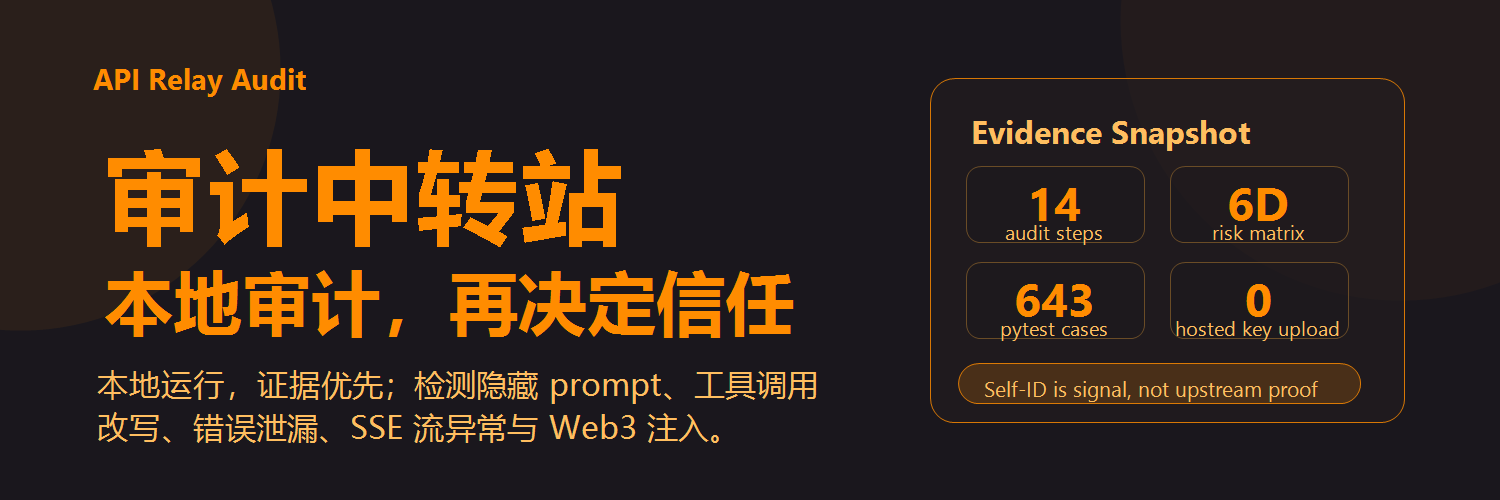
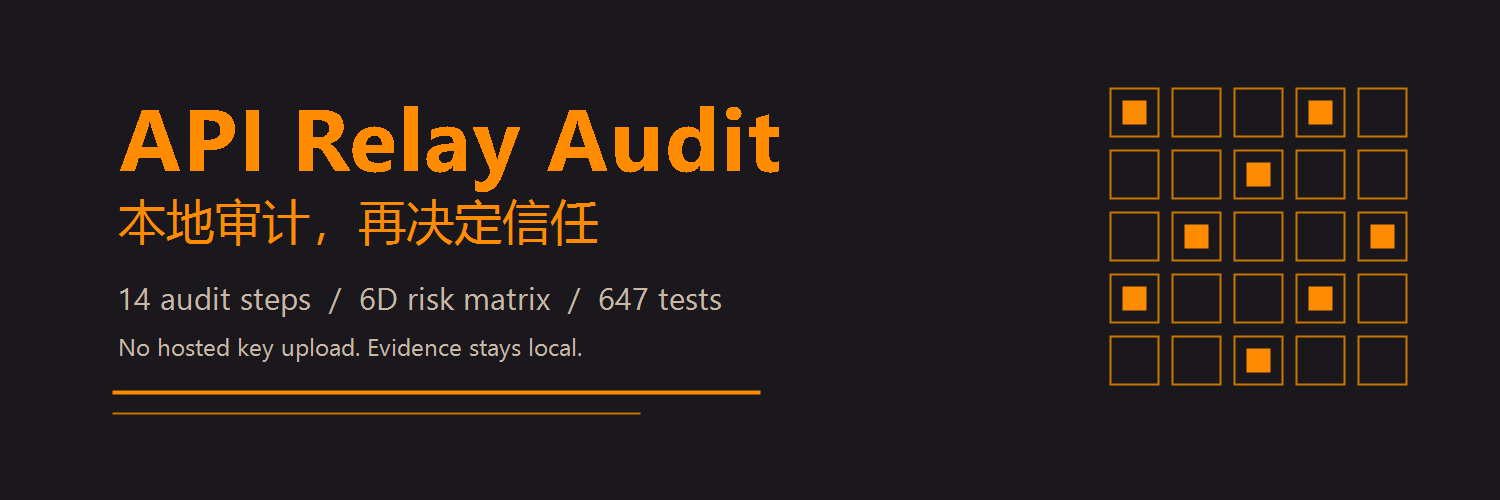
test: cover submission validation edge cases

diff --git a/tests/test_process_submission.py b/tests/test_process_submission.py
@@ -137,8 +137,8 @@ def test_domain_with_path_traversal():
         body = _make_body(relay_domain=bad_domain)
         fields = parse_issue_body(body)
         errors = validate_fields(fields)
-        path_errors = [e for e in errors if "path traversal" in e.lower()]
-        assert len(path_errors) > 0, f"Expected path-traversal error for domain {bad_domain!r}"
+        domain_errors = [e for e in errors if "relay_domain" in e and "hostname" in e]
+        assert len(domain_errors) > 0, f"Expected hostname error for domain {bad_domain!r}"
 
 
 def test_domain_with_special_chars():
@@ -147,8 +147,37 @@ def test_domain_with_special_chars():
         body = _make_body(relay_domain=bad_domain)
         fields = parse_issue_body(body)
         errors = validate_fields(fields)
-        char_errors = [e for e in errors if "illegal characters" in e.lower()]
-        assert len(char_errors) > 0, f"Expected illegal-char error for domain {bad_domain!r}"
+        domain_errors = [e for e in errors if "relay_domain" in e and "hostname" in e]
+        assert len(domain_errors) > 0, f"Expected hostname error for domain {bad_domain!r}"
+
+
+def test_domain_must_be_canonical_hostname():
+    """relay_domain must be a hostname, not a host:port or invalid label."""
+    bad_domains = [
+        "api.example.com:443",
+        "bad_domain.com",
+        "-bad.com",
+        "bad-.com",
+        ".",
+        "api..example.com",
+    ]
+    for bad_domain in bad_domains:
+        body = _make_body(relay_domain=bad_domain)
+        fields = parse_issue_body(body)
+        errors = validate_fields(fields)
+        domain_errors = [e for e in errors if "relay_domain" in e and "hostname" in e]
+        assert len(domain_errors) > 0, f"Expected hostname error for domain {bad_domain!r}"
+
+
+def test_domain_allows_case_and_trailing_dot():
+    """Case and trailing dot are canonicalized before hostname validation."""
+    body = _make_body(relay_domain="API.Example.COM.")
+    fields = parse_issue_body(body)
+    errors = validate_fields(fields)
+    domain_errors = [e for e in errors if "relay_domain" in e]
+    assert domain_errors == []
+    entry = build_relay_entry(fields, "tester", "100")
+    assert entry["domain"] == "api.example.com"
 
 
 def test_massive_body():
@@ -177,6 +206,23 @@ def test_multiple_images():
     entry = build_relay_entry(fields, "tester", "99")
     assert len(entry["reportImages"]) == 4
     assert "https://img.com/3.png" in entry["reportImages"]
+
+
+def test_report_images_must_be_https_without_markdown_title():
+    """Report image extraction accepts only strict HTTPS markdown image URLs."""
+    assert extract_image_urls("![x](http://img.com/a.png)") == []
+    assert extract_image_urls("![x](https://img.com/a.png title)") == []
+    assert extract_image_urls("![x](https://img.com/a.png)") == ["https://img.com/a.png"]
+
+    for bad_image in [
+        "![x](http://img.com/a.png)",
+        "![x](https://img.com/a.png title)",
+    ]:
+        body = _make_body(report_image=bad_image)
+        fields = parse_issue_body(body)
+        errors = validate_fields(fields)
+        image_errors = [e for e in errors if "report_image" in e]
+        assert image_errors, f"Expected report_image error for {bad_image!r}"
 
 
 def test_missing_report_image():
@@ -267,6 +313,13 @@ def test_rate_limit_old_entries():
         {"domain": "test.com", "submittedAt": recent_time} for _ in range(10)
     ]
     assert check_rate_limit("test.com", mixed_data_trigger) is True
+
+
+def test_rate_limit_normalizes_existing_domains():
+    """Legacy/manual relays.json domains should be normalized before comparison."""
+    now_iso = datetime.now(timezone.utc).isoformat()
+    fake_data = [{"domain": "TEST.com.", "submittedAt": now_iso} for _ in range(10)]
+    assert check_rate_limit("test.com", fake_data) is True
 
 
 def test_concurrent_json_write_safety(tmp_path, monkeypatch):

diff --git a/docs/_metrics.md b/docs/_metrics.md
@@ -16,8 +16,8 @@
 | 单文件版版本 | `v2.3` | `audit.py` docstring |
 | 步骤数 (Step N) | **14** | grep `Step N` in `scripts/audit.py` |
 | 步骤数 (单文件版) | 14 | grep `Step N` in `audit.py` |
-| 测试数 (pytest) | **643** | `pytest --collect-only` |
-| 测试数 (static) | 637 | grep `def test_*` in tests/ |
+| 测试数 (pytest) | **647** | `pytest --collect-only` |
+| 测试数 (static) | 641 | grep `def test_*` in tests/ |
 | CLI flag 数 | 19 | grep `add_argument("--*")` |
 | profile 选项 | general, web3, full | argparse choices |
 | ROADMAP 上次更新 | 2026-05-10 | `ROADMAP.md` 头部 |
@@ -32,7 +32,7 @@
 
 - ✅ 版本一致：两份都是 `v2.3`。
 - ✅ 步骤数一致：14。
-- ⚠ ROADMAP 最后一次记录 562 个测试，但当前 pytest 是 643。要么 ROADMAP 漏更新，要么有未记录的新测试。
+- ⚠ ROADMAP 最后一次记录 562 个测试，但当前 pytest 是 647。要么 ROADMAP 漏更新，要么有未记录的新测试。
 
 ## 人工 review 边界（脚本抓不到，每次发布要人工核对）
 

diff --git a/README.md b/README.md
@@ -4,7 +4,7 @@
 
 **Local, evidence-first security audit for third-party AI API relays.**
 
-<img src="assets/readme/hero.png" alt="API Relay Audit black and orange README banner: 14 audit steps, 6D risk matrix, 643 tests, no hosted key upload" width="100%">
+<img src="assets/readme/hero.png" alt="API Relay Audit black and orange README banner: 14 audit steps, 6D risk matrix, 647 tests, no hosted key upload" width="100%">
 
 <a href="#readme-zh"><img alt="README Chinese" src="https://img.shields.io/badge/README-%E4%B8%AD%E6%96%87-111111?style=for-the-badge"></a>
 <a href="#readme-en"><img alt="README English" src="https://img.shields.io/badge/README-English-f5f5f5?style=for-the-badge&labelColor=111111&color=f5f5f5"></a>
@@ -119,7 +119,7 @@ python scripts/audit.py --key <YOUR_KEY> --url <BASE_URL> --model claude-opus-4-
 | 版本 | `v2.3` |
 | 审计步骤 | 14 |
 | 风险矩阵 | 6D |
-| pytest collected tests | 643 |
+| pytest collected tests | 647 |
 | CLI flags | 19 |
 | Runtime profiles | `general`, `web3`, `full` |
 
